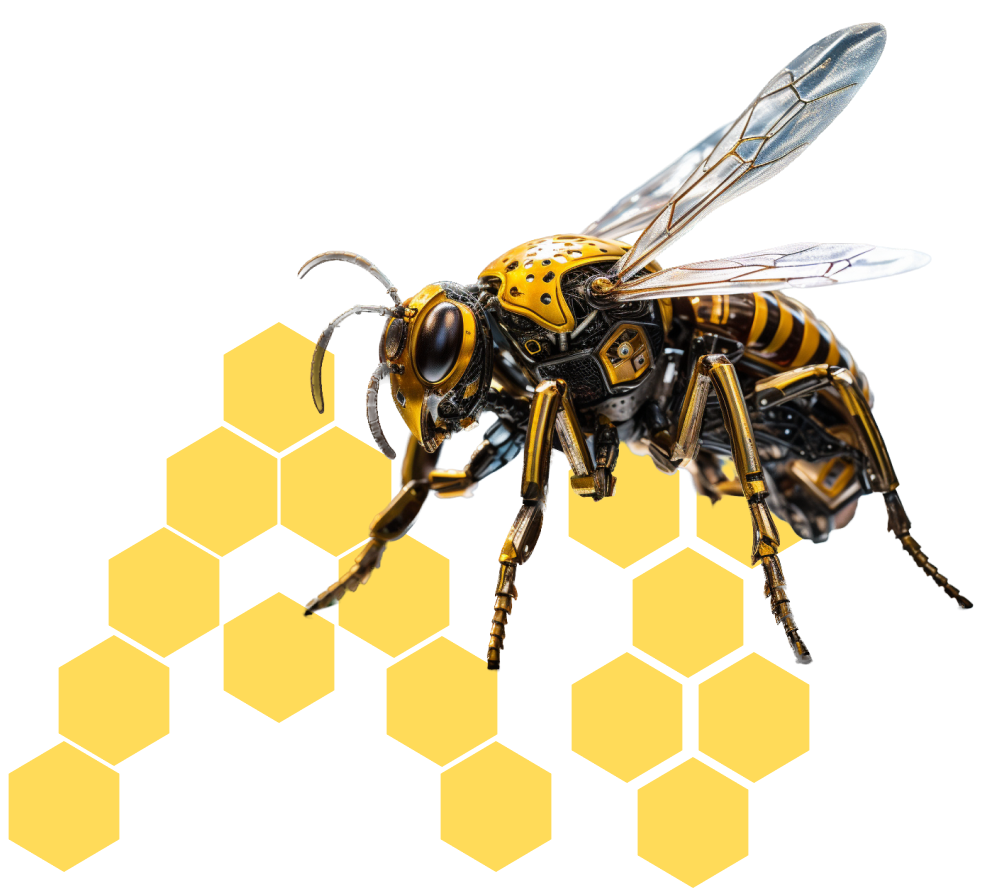
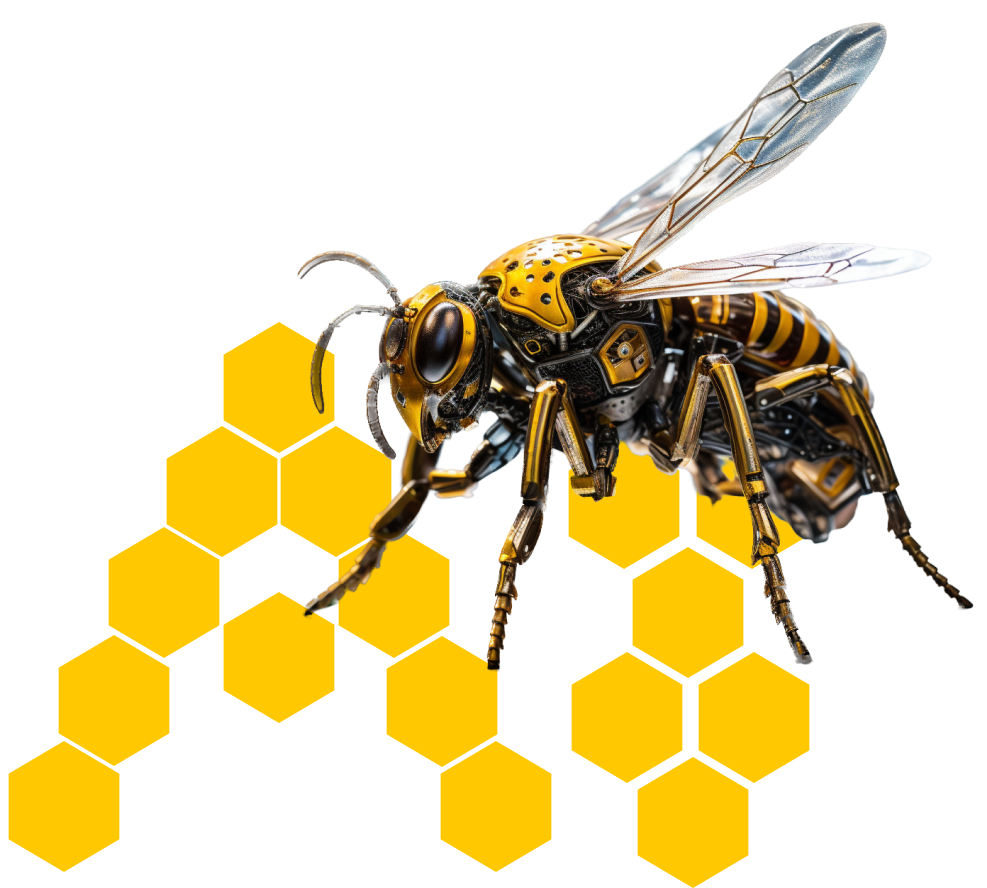
star

Changed region(s): [[0.0, 0.3649, 0.8207, 1.0]]

diff --git a/components/card_feature.tsx b/components/card_feature.tsx
@@ -61,7 +61,7 @@ const FeatureCard: React.FC<FeatureCardProps> = ({ feature }) => {
         <div className="flex items-center justify-between">
           <div className="flex items-center">
             {[...Array(5)].map((_, i) => (
-              <span key={i}>{i < feature.rating ? <FaStar color='white' /> : <FaRegStar color='gray' />}  </span>
+              <span key={i}>{i < feature.rating ? <FaStar color='rgba(255, 200, 0, 100)' /> : <FaRegStar color='gray' />}  </span>
             ))}
           </div>
           <a href={feature.link} className="text-gray-200 bg-custom-purple hover:bg-custom-yellow hover:text-gray-800 font-medium rounded-lg text-sm px-5 py-2.5 font-poppins text-center">Visit Site</a>

diff --git a/components/hexagon/useColors.tsx b/components/hexagon/useColors.tsx
@@ -1,6 +1,6 @@
 export const useColors=()=>{
     const selectedColor= 'rgba(232, 176, 32, 1)'
-    const unselectedColor= 'rgba(255, 219, 89, 100)'
+    const unselectedColor= 'rgba(255, 200, 0, 100)'
     const selectedTextColor= 'rgba(21, 12, 31, 1)' 
     const unselectedTextColor= 'rgba(21, 12, 31, 1)';
 

diff --git a/tailwind.config.js b/tailwind.config.js
@@ -21,7 +21,7 @@ module.exports = {
       },
       colors: {
         'custom-purple': 'rgb(14, 1, 14, 100)',
-        'custom-yellow': 'rgba(255, 219, 89, 100)'
+        'custom-yellow': 'rgba(255, 200, 0, 100)'
       }
     },
     
